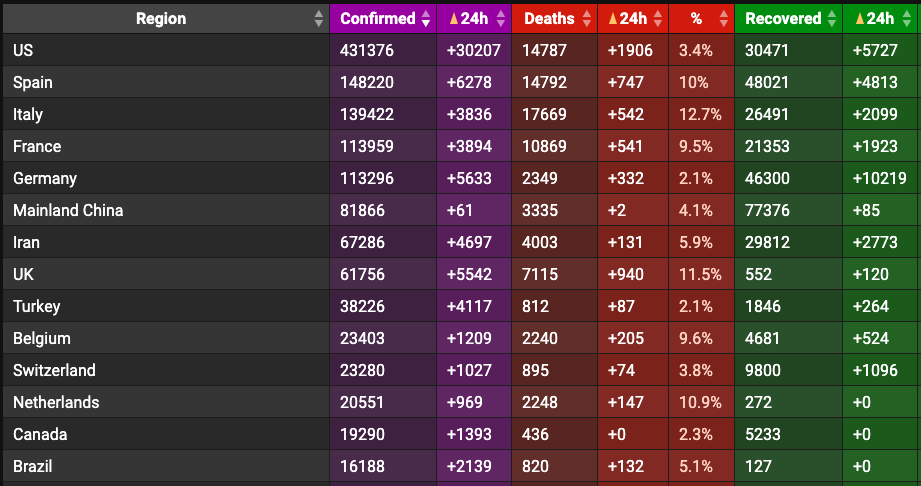
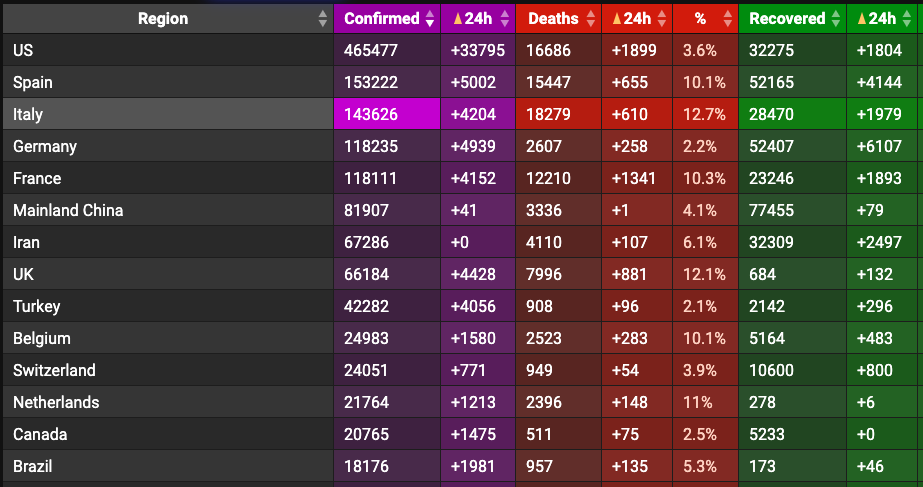
Add files via upload

diff --git a/index.htm b/index.htm
@@ -36,7 +36,7 @@
 						<h1>News map death</h1>
 						<p>Save lives</p>
 						<span>News every day!</span>
-						<p>Last updated: 9 April 02:10:04 UTC+7</p>
+						<p>Last updated: 10 April 02:10:04 UTC+7</p>
 					</div>
 				</div>
 			</div>
